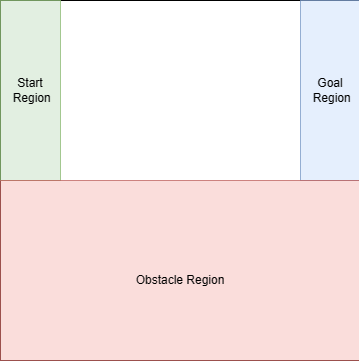
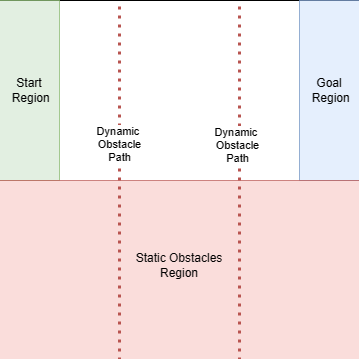
Modified constraints for problems

diff --git a/signal8/utils/problems.py b/signal8/utils/problems.py
@@ -49,14 +49,14 @@ def get_problem(scenario_name, dynamic_obstacles):
     
     if dynamic_obstacles:
         dynamic_elements = {
-            'v_cluster': {'dynamic_obs': (((-1, 1), (-0.5, -0.35)), ((-1, 1), (0.35, 0.5)))},
-            'h_cluster': {'dynamic_obs': (((-0.5, -0.35), (-1, 1)), ((0.35, 0.5), (-1, 1)))},
-            'v_wall': {'dynamic_obs': (((-1, 1), (-0.25, -0.075)), ((-1, 1), (0.075, 0.25)))},
-            'h_wall': {'dynamic_obs': (((-0.25, -0.075), (-1, 1)), ((0.075, 0.25), (-1, 1)))},
-            'left': {'dynamic_obs': (((-1, 0.5), (-0.45, -0.55)), ((-1, 0.5), (0.45, 0.55)))},
-            'right': {'dynamic_obs': (((-0.5, 1), (-0.45, -0.55)), ((-0.5, 1), (0.45, 0.55)))},
-            'top': {'dynamic_obs': (((-0.45, -0.55), (-0.5, 1)), ((0.45, 0.55), (-0.5, 1)))},
-            'bottom': {'dynamic_obs': (((-0.45, -0.55), (-1, 0.5)), ((0.45, 0.55), (-1, 0.5)))},
+            'v_cluster': {'dynamic_obs': (((-1, 1), (-0.45, -0.40)), ((-1, 1), (0.40, 0.45)))},
+            'h_cluster': {'dynamic_obs': (((-0.45, -0.40), (-1, 1)), ((0.40, 0.45), (-1, 1)))},
+            'v_wall': {'dynamic_obs': (((-1, 1), (-0.25, -0.20)), ((-1, 1), (0.20, 0.25)))},
+            'h_wall': {'dynamic_obs': (((-0.45, -0.40), (-1, 1)), ((0.40, 0.45), (-1, 1)))},
+            'left': {'dynamic_obs': (((-1, 1), (-0.40, -0.45)), ((-1, 1), (0.40, 0.45)))},
+            'right': {'dynamic_obs': (((-1, 1), (-0.40, -0.45)), ((-1, 1), (0.40, 0.45)))},
+            'top': {'dynamic_obs': (((-0.40, -0.45), (-1, 1)), ((0.40, 0.45), (-1, 1)))},
+            'bottom': {'dynamic_obs': (((-0.40, -0.45), (-1, 1)), ((0.40, 0.45), (-1, 1)))},
         }
         dynamic_scenario = {**static_scenario, **dynamic_elements[scenario_name]}
         return dynamic_scenario

diff --git a/README.md b/README.md
@@ -27,15 +27,15 @@ env.reset(options={"problem_name": "v_cluster"}))
 ## List of Problem Scenarios
 
 |     Names     | Description                                                                                                                                                                                          |
-| :------------: | ---------------------------------------------------------------------------------------------------------------------------------------------------------------------------------------------------- |
-|  `Cluster`  | The environment features a central square formed by four obstacles, with the start on the left and the goal on the right side.                                                                       |
-|  `L-Shaped`  | The environment showcases a central L-shaped configuration of four obstacles, with the starting point on the left boundary and the goal situated at the inner elbow of the L.                        |
-|  `Vertical`  | Four obstacles are aligned vertically in the environment's center, with the starting point on the left boundary and the goal on the right boundary.                                                  |
-| `Horizontal` | Four obstacles are arranged in a horizontal line at the environment's midsection, with the start on the left boundary and the goal on the right boundary.                                            |
-|    `Top`    | Four obstacles are placed at the top of the environment, while the start is situated in the bottom half on the left boundary and the goal is in the bottom half on the right boundary.               |
-|   `Bottom`   | Four obstacles are placed at the bottom of the environment, while the start is situated in the top half on the left boundary and the goal is in the top half on the right boundary.                 |
-|   `Right`   | Four obstacles are situated on the right side of the environment, with the start positioned in the left half along the bottom boundary and the goal located in the left half along the top boundary. |
-|    `Left`    | Four obstacles are situated on the left side of the environment, with the start positioned in the right half along the bottom boundary and the goal located in the left half along the top boundary. |
+| :-----------: | ---------------------------------------------------------------------------------------------------------------------------------------------------------------------------------------------------- |
+| `v_cluster` | The environment features a central square formed by four obstacles, with the start on the left and the goal on the right side.                                                                       |
+| ``h_cluster`` | The environment showcases a central L-shaped configuration of four obstacles, with the starting point on the left boundary and the goal situated at the inner elbow of the L.                        |
+|  `v_wall`  | Four obstacles are aligned vertically in the environment's center, with the starting point on the left boundary and the goal on the right boundary.                                                  |
+|  `h_wall`  | Four obstacles are arranged in a horizontal line at the environment's midsection, with the start on the left boundary and the goal on the right boundary.                                            |
+|    `top`    | Four obstacles are placed at the top of the environment, while the start is situated in the bottom half on the left boundary and the goal is in the bottom half on the right boundary.               |
+|  `bottom`  | Four obstacles are placed at the bottom of the environment, while the start is situated in the top half on the left boundary and the goal is in the top half on the right boundary.                 |
+|   `right`   | Four obstacles are situated on the right side of the environment, with the start positioned in the left half along the bottom boundary and the goal located in the left half along the top boundary. |
+|   `left`   | Four obstacles are situated on the left side of the environment, with the start positioned in the right half along the bottom boundary and the goal located in the left half along the top boundary. |
 
 ## Paper Citation
 
